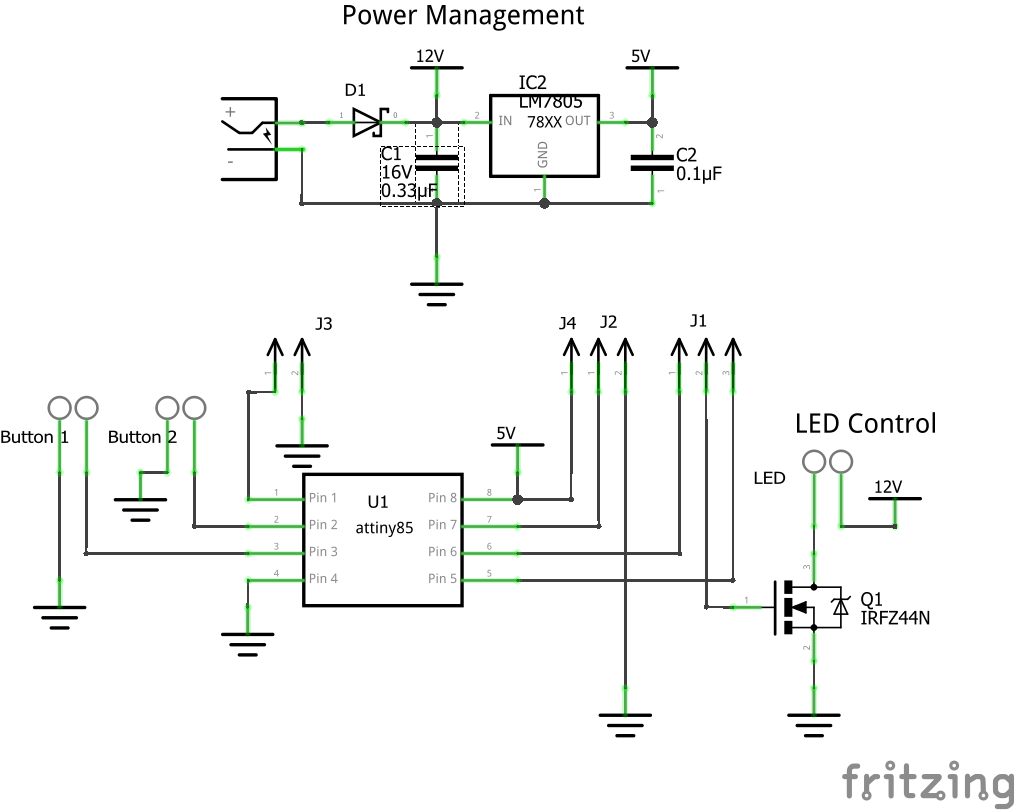
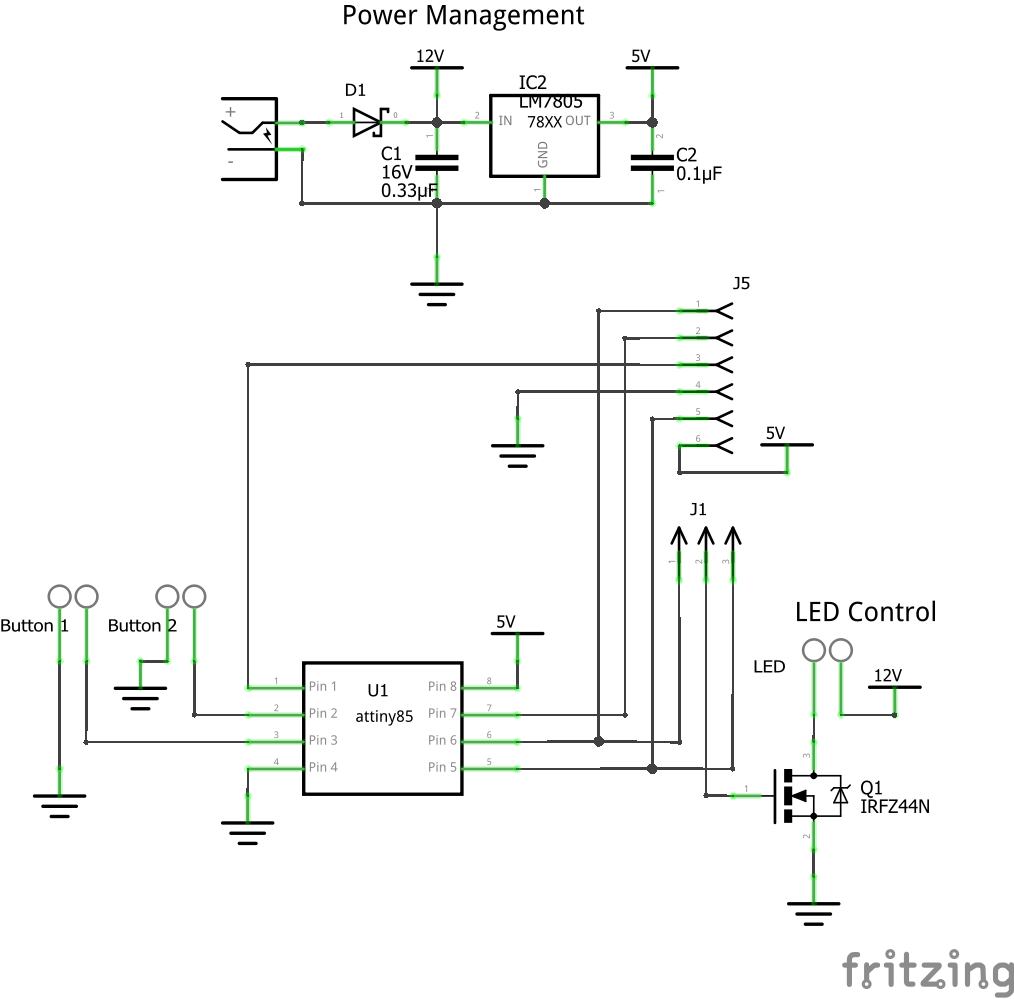
Add single ICSP header

diff --git a/README.md b/README.md
@@ -9,13 +9,10 @@
 - R1 - 10MΩ
 - C1 - 16V, 0.33µF
 - C2 - 5V, 0.1µF
-- C3 - 5v, 10pF
 - Q1 - IRFZ44N
 - U1 - ATtiny85
 - J1 - 3 pin haeder with jumper
-- J2 - 2 pin header (optional)
-- J3 - 2 pin header (optional)
-- J4 - 1 pin header (optional)
+- J2 - 6 pin header (optional)
 
 J1 - Jumper options:
 - 1-2: Pin 6 (PB1) connected to Q1 gate
@@ -25,8 +22,12 @@ Connector pins:
 - J1, 1 - Pin 6 (PB1, MISO)
 - J1, 2 - Q1 gate
 - J1, 3 - Pin 5 (PB0, MOSI)
-- J2, 1 - Pin 7 (PB2, SCK)
-- J2, 2 - GND
-- J3, 1 - Pin 1 (!RESET)
-- J3, 2 - GND
-- J4, 1 - VCC (5V)
+
+J2 - ISP
+- 1: MISO
+- 2: VCC
+- 3: SCK
+- 4: MOSI
+- 5: RESET
+- 6: GND
+
